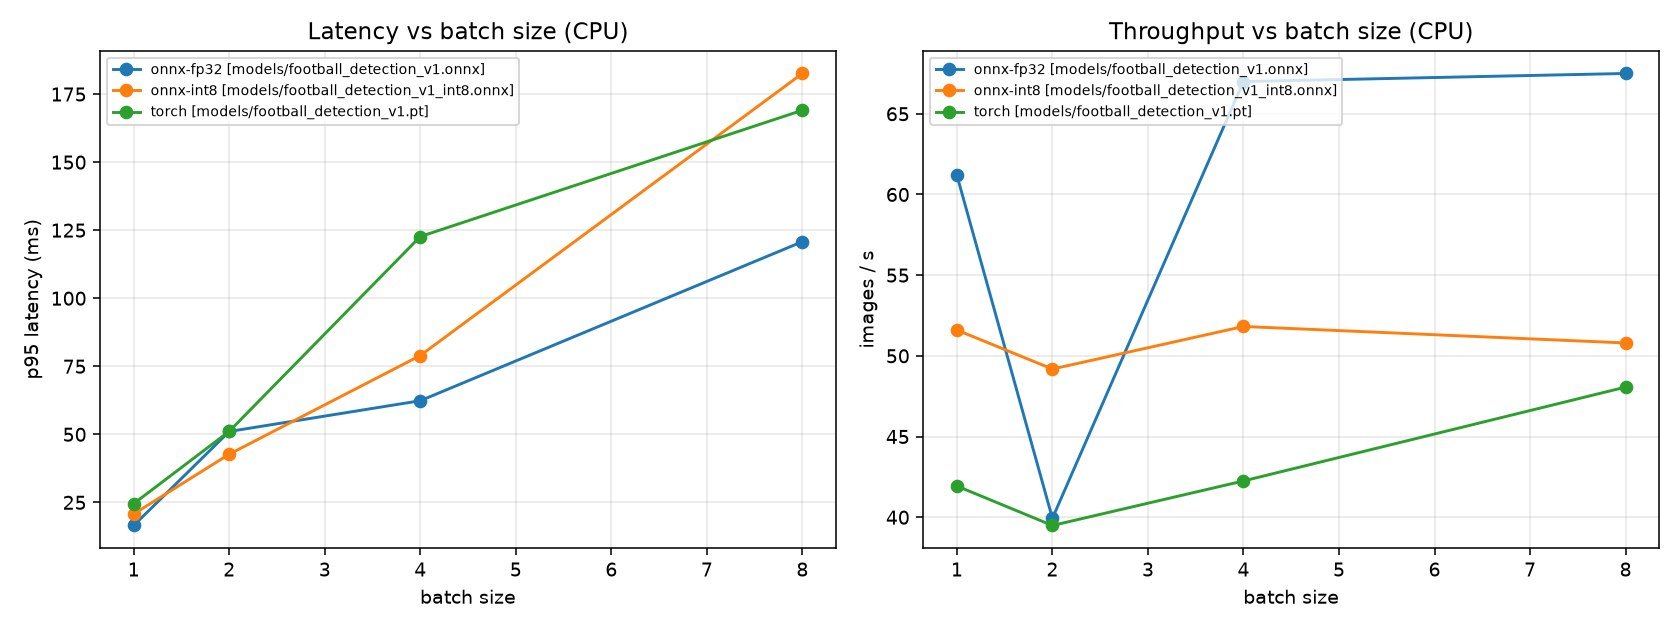
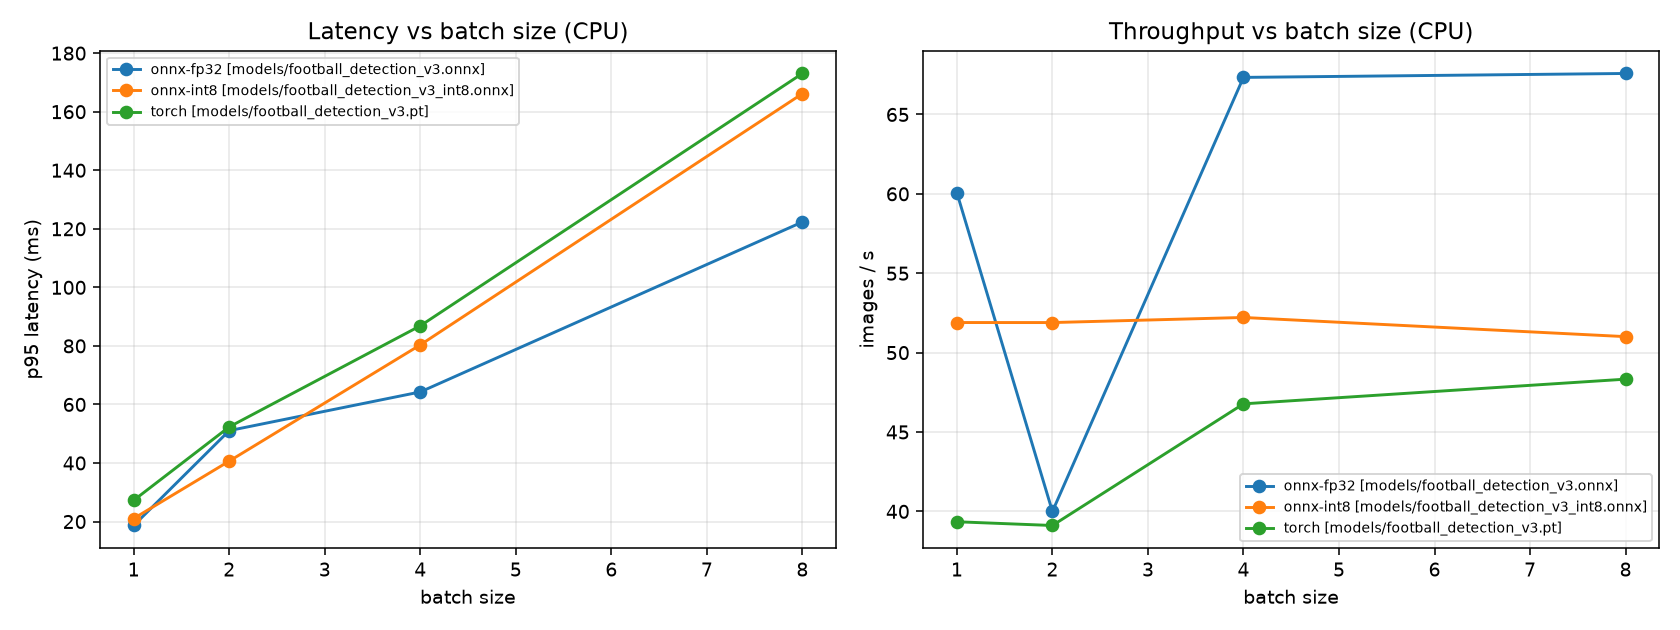
Update latency metrics for v3 model; adjust runs and improve performance data in reports

diff --git a/README.md b/README.md
@@ -83,13 +83,16 @@ those matches. `ball` is dominated by noise at this training length.
 - v1/v2 are **10-epoch**, v3 is **20-epoch** — all still deliberately short of the
   100-epoch `configs/train.yaml` target. Every number here moves with a real training run.
 
-### Latency (single-request, CPU, Apple M2 8-core, batch=1)
+### Latency (single-request, CPU, Apple M2 8-core, batch=1, v3 nano)
 
 | backend | p50 ms | p95 ms | p99 ms | img/s |
 |---|---|---|---|---|
-| torch | 23.7 | 24.5 | 26.3 | 41.9 |
-| onnx-fp32 | 16.2 | 16.5 | 19.7 | 61.2 |
-| onnx-int8 | 19.1 | 20.7 | 23.9 | 51.6 |
+| torch | 24.9 | 27.3 | 33.7 | 39.3 |
+| onnx-fp32 | 16.3 | 18.7 | 20.2 | 60.1 |
+| onnx-int8 | 19.0 | 21.0 | 23.0 | 51.9 |
+
+(Within run-to-run noise of the earlier v1 numbers — latency tracks the architecture, not
+the checkpoint, and v1/v3 are both yolo26n.)
 
 **onnx-fp32 is 1.5x torch, free** — no accuracy cost (see table above), just a different
 runtime. **onnx-int8 is *slower* than fp32 on this hardware** — Apple Silicon (ARM) lacks
